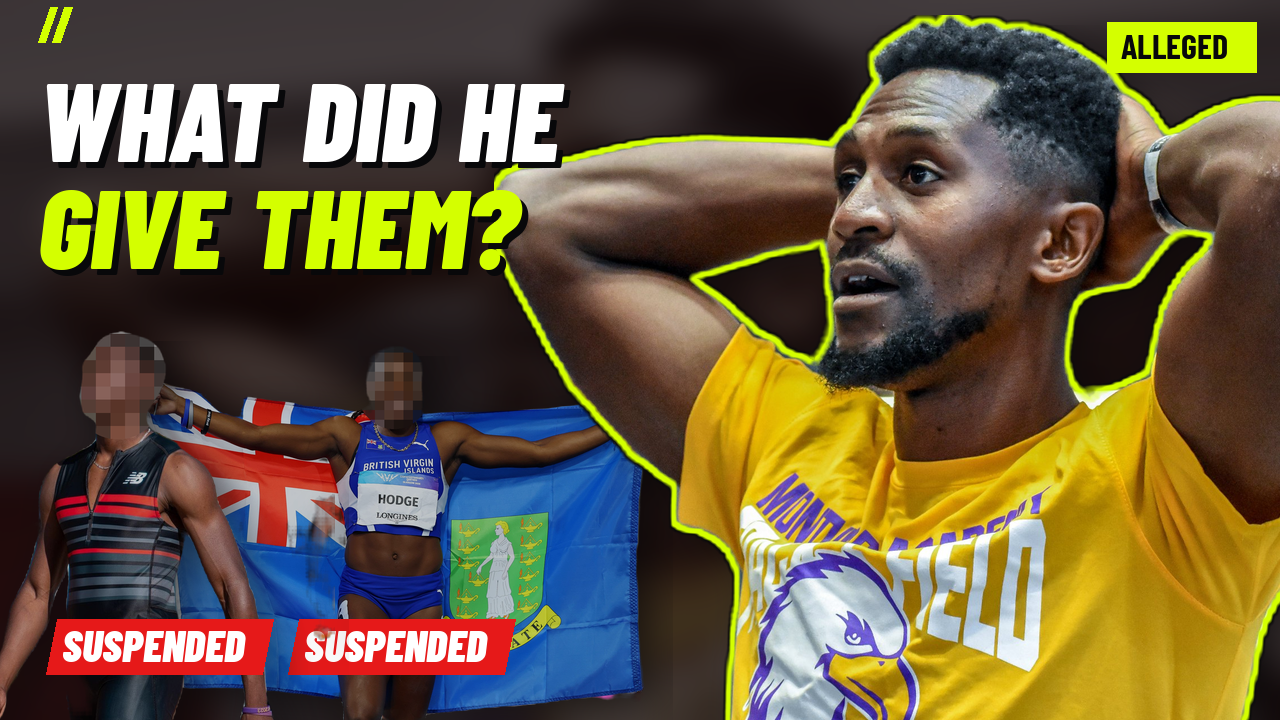
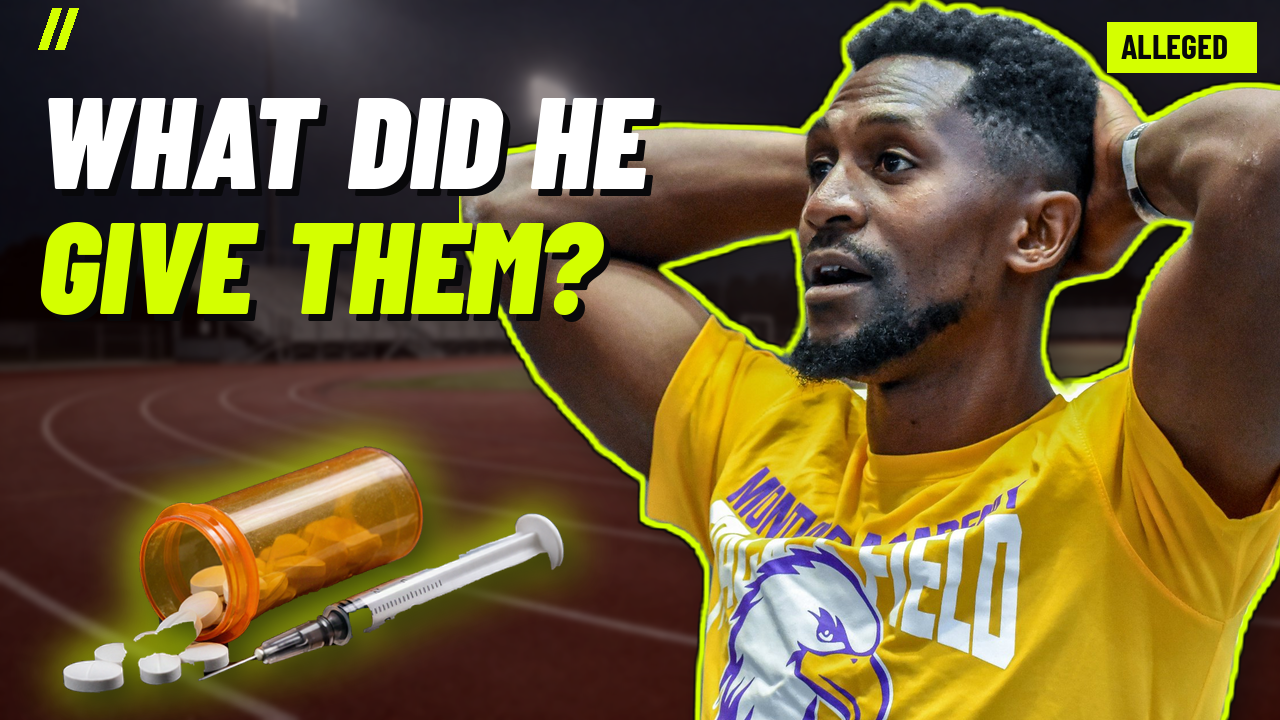
Add AI-generated background/prop support; final video 002 thumbnail with generated stadium and prop
Claude-Session: https://claude.ai/code/session_01FEcSZvJcptNLFfLb8uX2uA

diff --git a/tools/pro_thumbnail.py b/tools/pro_thumbnail.py
@@ -119,6 +119,31 @@ def place(canvas, sub, s):
     return canvas
 
 
+def place_prop(canvas, pr, base):
+    """Pre-cut RGBA image (e.g. an AI-generated object) with optional rotation, glow and shadow."""
+    im = Image.open(os.path.join(base, pr["image"])).convert("RGBA")
+    w = int(pr.get("width", 0.3) * W)
+    im = im.resize((w, int(im.height * w / im.width)), Image.LANCZOS)
+    if pr.get("rotate"):
+        im = im.rotate(pr["rotate"], expand=True, resample=Image.BICUBIC)
+    pad = 70  # room for glow/shadow so they aren't clipped into a rectangle
+    padded = Image.new("RGBA", (im.width + 2 * pad, im.height + 2 * pad), (0, 0, 0, 0))
+    padded.paste(im, (pad, pad))
+    im = padded
+    x = int(pr.get("cx", 0.5) * W - im.width / 2)
+    y = int(pr.get("cy", 0.8) * H - im.height / 2)
+    a = im.split()[3].point(lambda v: 0 if v < 24 else v)   # drop faint edge noise so glow/shadow follow the object
+    im.putalpha(a)
+    if pr.get("glow"):
+        g = a.filter(ImageFilter.MaxFilter(9)).filter(ImageFilter.GaussianBlur(22))
+        g = g.point(lambda v: int(min(255, v * pr.get("glow", 0.8))))
+        canvas.paste(COLORS.get(pr.get("glow_color", "lime"), LIME), (x, y), g)
+    sh = a.filter(ImageFilter.GaussianBlur(14)).point(lambda v: int(v * 0.7))
+    canvas.paste(INK, (x + 10, y + 14), sh)
+    canvas.paste(im, (x, y), im)
+    return canvas
+
+
 def background(bg, base):
     focus = tuple(bg.get("focus", [0.5, 0.4]))
     if bg.get("color"):
@@ -172,6 +197,8 @@ def build(spec, base):
                 draw_text(canvas, t)
         cut = cutout(os.path.join(base, s["photo"]), s.get("hide"))
         place(canvas, cut, s)
+    for pr in spec.get("props", []):
+        place_prop(canvas, pr, base)
     for t in front:
         f = draw_text(canvas, t)
         if spec.get("mark", True) and t is front[0]:

diff --git a/videos/002-coach-ped-suspensions/PACKAGE.md b/videos/002-coach-ped-suspensions/PACKAGE.md
@@ -1,6 +1,14 @@
 # 002: High school coach allegedly gave athletes PEDs, two athletes suspended
 
-## ✅ Current versions: PRO layered thumbnails (best so far)
+## ✅ FINAL: `pro-d.png` (AI-assisted scene)
+Real coach photo (cut out, untouched) + **AI-generated** stadium background and pill bottle/syringe
+prop (Higgsfield, z_image model, stored in `generated/`). Nobody's face or body is AI-generated.
+Title: **High School Coach Accused of Giving His Athletes PEDs, Now They're Suspended**
+A/B partner: `pro-b.png` ("WHO'S TO BLAME?").
+`pro-e.png` (athletes + prop) was too busy; kept for reference only.
+Rebuild: `python ../../tools/pro_thumbnail.py specs/pro-d.json`
+
+## Earlier: PRO layered thumbnails
 Made with `tools/pro_thumbnail.py`: the coach is cut out of his photo (local model, pixels untouched),
 the background is darkened, blurred and tinted, and he gets the signature lime outline so he pops.
 Same signature text and colours as before.

diff --git a/STYLE.md b/STYLE.md
@@ -6,6 +6,10 @@ put text behind the person for depth and add supporting people (e.g. pixelated a
 SUSPENDED stamps). It's driven by a small JSON file per thumbnail; see
 `videos/002-coach-ped-suspensions/specs/` for three ready examples to copy.
 
+**AI assets rule:** AI may generate *backgrounds and props* (stadiums, pill bottles,
+documents, trophies) to place into the scene with `"props"` in the spec. Never generate or
+alter real people. Their real photos are cut out and left untouched.
+
 **Quick flat versions: `tools/signature_formats.py`.** Your three signature formats take the proven
 structure from your benchmark creators and give it your own look:
 
